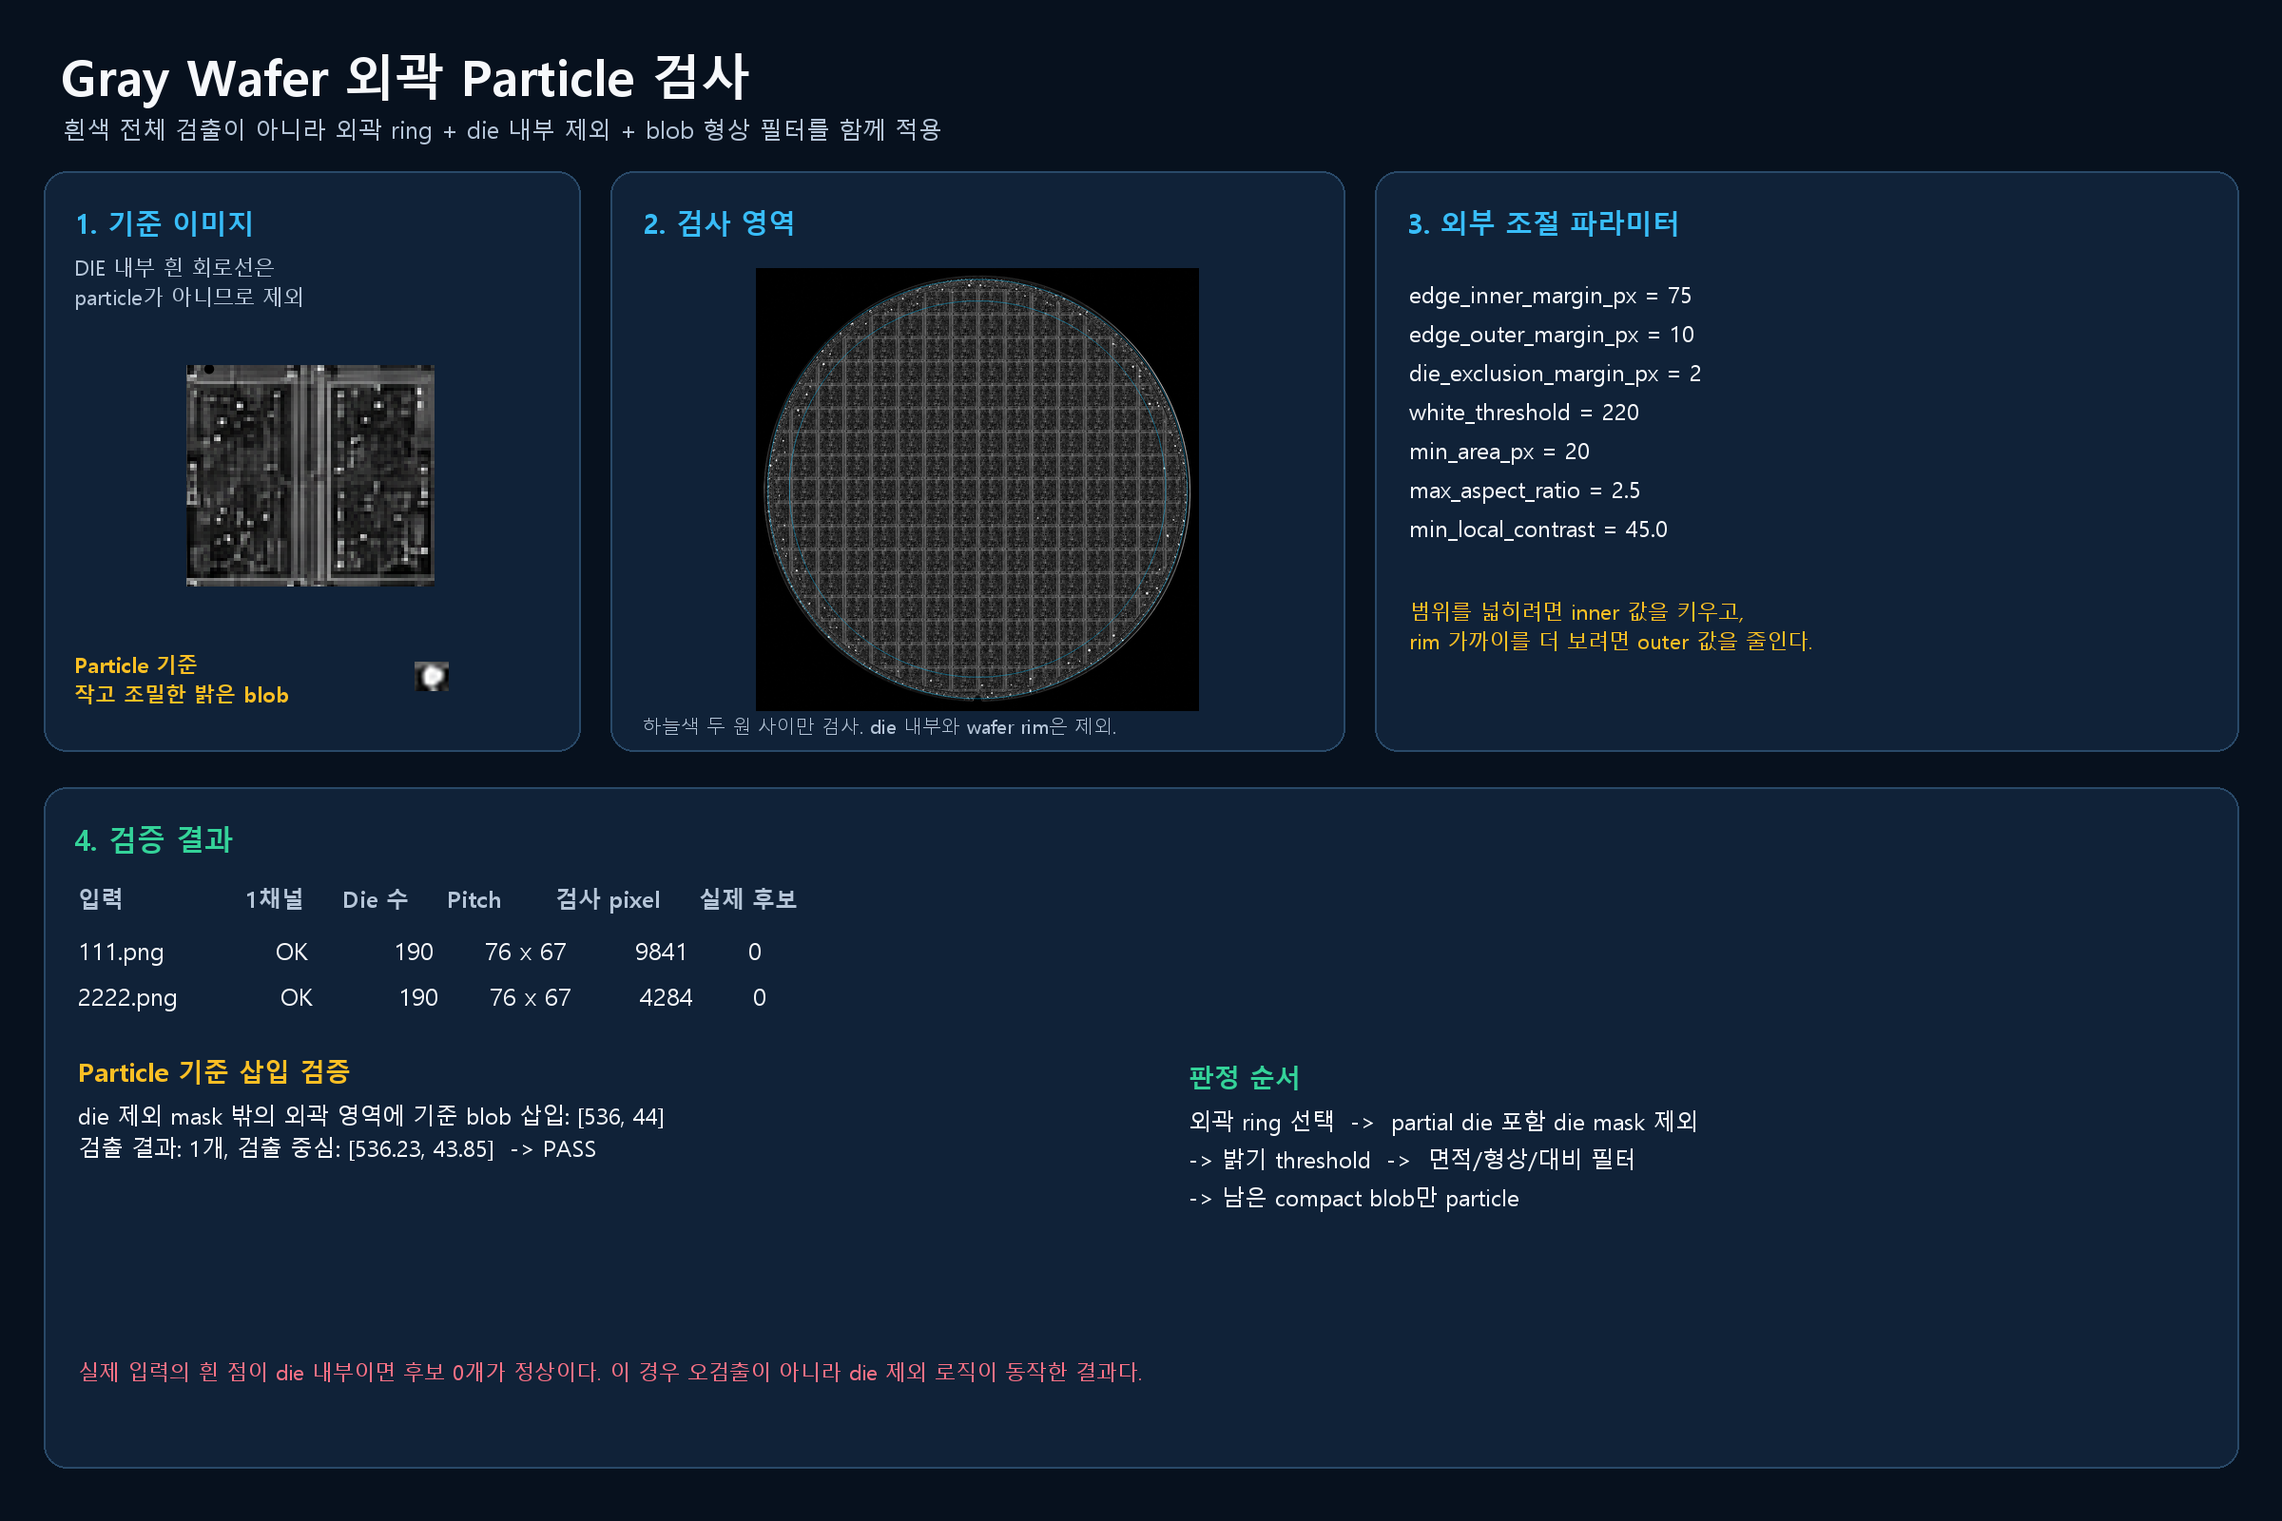
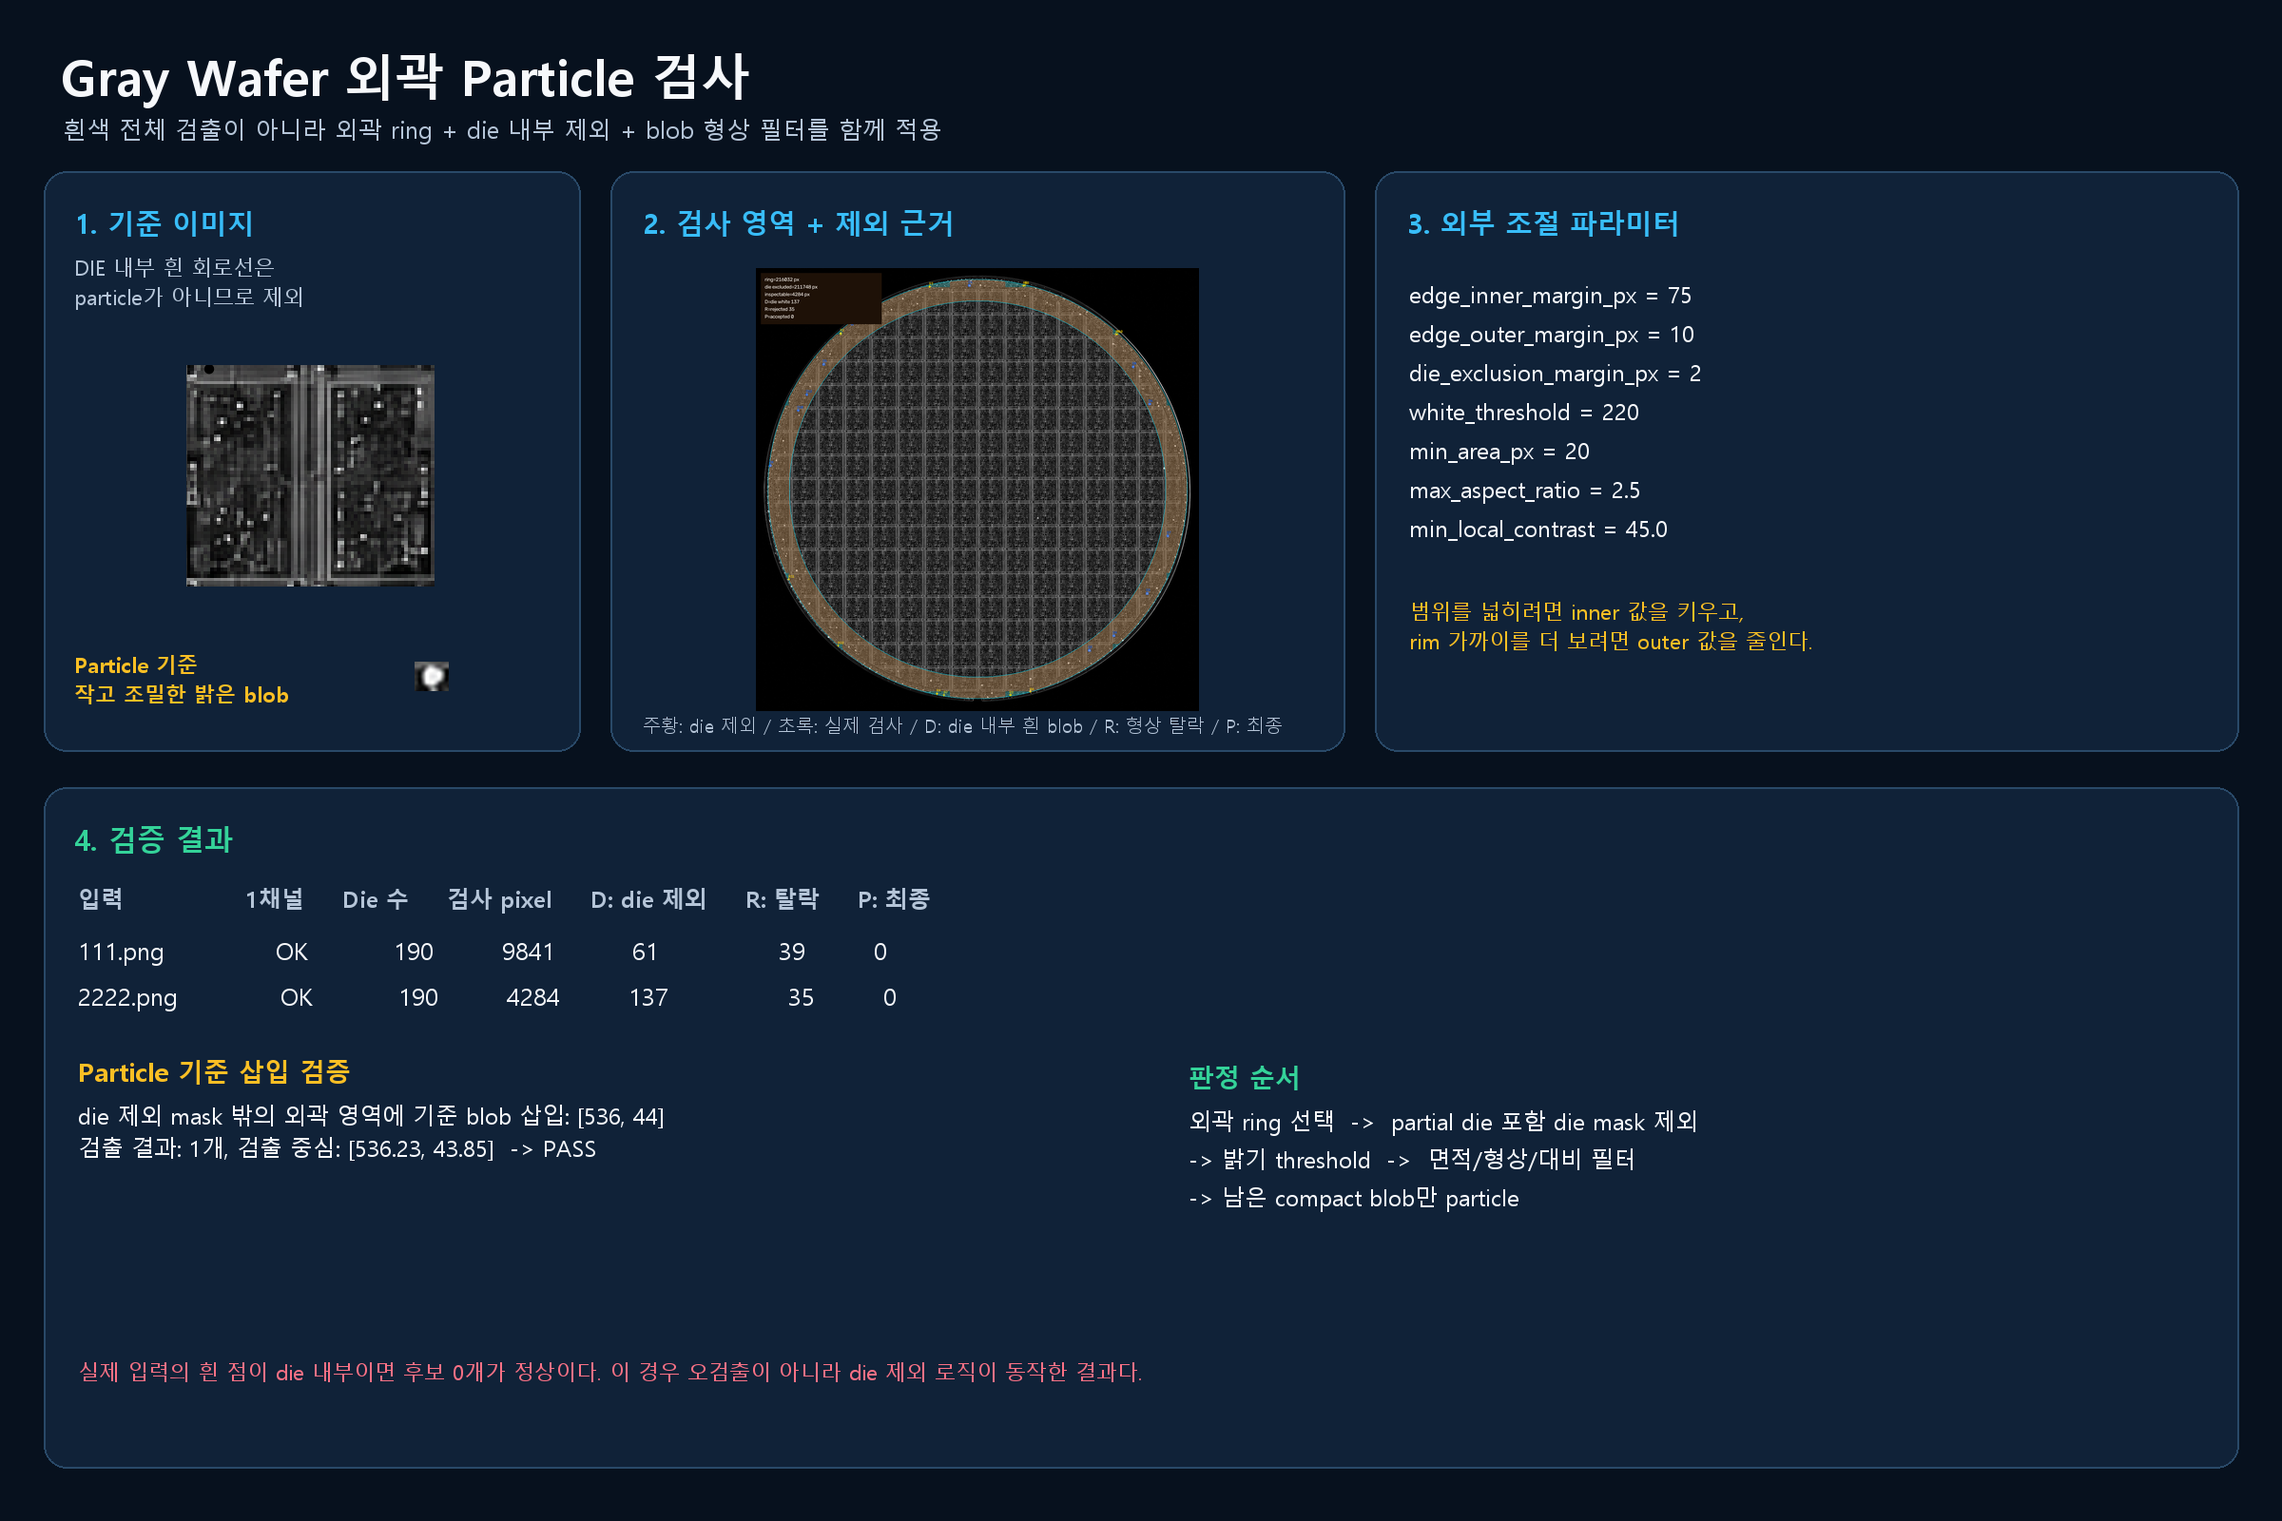
add edge particle diagnostic overlays

diff --git a/paste_ready_evaluate_bw_noisy_wafer.py b/paste_ready_evaluate_bw_noisy_wafer.py
@@ -99,7 +99,8 @@ __all__ = ["WaferDieMap", "build_die_map", "locate_die", "crop_die",
            "validate_quadrant_edges",
            "render_die_grid_mask", "measure_die_render_angle",
            "align_wafer_by_die_render", "measure_wafer_angle_robust",
-           "inspect_edge_particles", "render_edge_particle_overlay"]
+           "inspect_edge_particles", "render_edge_particle_overlay",
+           "render_edge_particle_diagnostic_overlay"]
 
 
 # #############################################################################
@@ -2473,7 +2474,8 @@ def inspect_edge_particles(image: Union[str, Path, np.ndarray], *,
                            max_area_px: int = 300,
                            max_aspect_ratio: float = 2.5,
                            min_fill_ratio: float = 0.45,
-                           min_local_contrast: float = 45.0
+                           min_local_contrast: float = 45.0,
+                           include_debug_components: bool = False
                            ) -> Dict[str, Any]:
     """Detect compact bright particles only in an adjustable wafer-edge ring.
 
@@ -2527,16 +2529,36 @@ def inspect_edge_particles(image: Union[str, Path, np.ndarray], *,
 
     inspection_mask = ((ring_mask > 0) & (die_mask == 0)).astype(np.uint8)
     bright_mask = ((gray >= int(white_threshold)) & (inspection_mask > 0)).astype(np.uint8)
+    die_bright_mask = ((gray >= int(white_threshold)) & (ring_mask > 0) & (die_mask > 0)).astype(np.uint8)
     num_labels, labels, stats, centroids = cv2.connectedComponentsWithStats(bright_mask, 8)
 
     particles: List[Dict[str, Any]] = []
+    rejected_components: List[Dict[str, Any]] = []
+
+    def _record(label: int, reason: str, *, local_contrast: Optional[float] = None) -> Dict[str, Any]:
+        x, y, box_w, box_h, area = (int(value) for value in stats[label])
+        cx, cy = (float(value) for value in centroids[label])
+        record: Dict[str, Any] = {
+            "center_px": (round(cx, 2), round(cy, 2)),
+            "bbox_px": (x, y, x + box_w, y + box_h),
+            "area_px": area,
+            "reason": reason,
+        }
+        if local_contrast is not None:
+            record["local_contrast"] = round(local_contrast, 2)
+        return record
+
     for label in range(1, num_labels):
         x, y, box_w, box_h, area = (int(value) for value in stats[label])
         if not min_area_px <= area <= max_area_px:
+            if include_debug_components:
+                rejected_components.append(_record(label, "area"))
             continue
         aspect_ratio = max(box_w, box_h) / max(1.0, min(box_w, box_h))
         fill_ratio = area / float(max(1, box_w * box_h))
         if aspect_ratio > max_aspect_ratio or fill_ratio < min_fill_ratio:
+            if include_debug_components:
+                rejected_components.append(_record(label, "shape"))
             continue
 
         component_mask = labels[y:y + box_h, x:x + box_w] == label
@@ -2547,9 +2569,13 @@ def inspect_edge_particles(image: Union[str, Path, np.ndarray], *,
         local_component = labels[ry1:ry2, rx1:rx2] == label
         local_background = inspection_mask[ry1:ry2, rx1:rx2].astype(bool) & ~local_component
         if int(local_background.sum()) < 8:
+            if include_debug_components:
+                rejected_components.append(_record(label, "background"))
             continue
         local_contrast = mean_intensity - float(np.median(gray[ry1:ry2, rx1:rx2][local_background]))
         if local_contrast < min_local_contrast:
+            if include_debug_components:
+                rejected_components.append(_record(label, "contrast", local_contrast=local_contrast))
             continue
 
         cx, cy = (float(value) for value in centroids[label])
@@ -2565,6 +2591,21 @@ def inspect_edge_particles(image: Union[str, Path, np.ndarray], *,
             "radius_from_wafer_center_px": round(float(np.hypot(cx - die_map.wafer_cx, cy - die_map.wafer_cy)), 2),
         })
 
+    die_bright_components: List[Dict[str, Any]] = []
+    if include_debug_components:
+        die_count, _, die_stats, die_centroids = cv2.connectedComponentsWithStats(die_bright_mask, 8)
+        for label in range(1, die_count):
+            x, y, box_w, box_h, area = (int(value) for value in die_stats[label])
+            if area < 3:
+                continue
+            cx, cy = (float(value) for value in die_centroids[label])
+            die_bright_components.append({
+                "center_px": (round(cx, 2), round(cy, 2)),
+                "bbox_px": (x, y, x + box_w, y + box_h),
+                "area_px": area,
+                "reason": "die_excluded",
+            })
+
     return {
         "die_map": die_map,
         "particles": particles,
@@ -2572,6 +2613,15 @@ def inspect_edge_particles(image: Union[str, Path, np.ndarray], *,
         "die_exclusion_mask": die_mask,
         "inspection_mask": inspection_mask,
         "bright_mask": bright_mask,
+        "die_bright_mask": die_bright_mask,
+        "mask_summary": {
+            "ring_pixels": int(ring_mask.sum()),
+            "die_excluded_pixels_in_ring": int(((ring_mask > 0) & (die_mask > 0)).sum()),
+            "inspection_pixels": int(inspection_mask.sum()),
+            "bright_pixels_inside_die": int(die_bright_mask.sum()),
+            "bright_components_in_inspection": int(num_labels - 1),
+            "accepted_particles": len(particles),
+        },
         "parameters": {
             "edge_inner_margin_px": edge_inner_margin_px,
             "edge_outer_margin_px": edge_outer_margin_px,
@@ -2588,6 +2638,10 @@ def inspect_edge_particles(image: Union[str, Path, np.ndarray], *,
             "inner": round(inner_radius, 2),
             "outer": round(outer_radius, 2),
         },
+        "debug_components": {
+            "die_excluded": die_bright_components,
+            "rejected": rejected_components,
+        } if include_debug_components else None,
     }
 
 
@@ -2607,6 +2661,63 @@ def render_edge_particle_overlay(image: Union[str, Path, np.ndarray],
         cv2.drawMarker(canvas, center, (0, 0, 255), cv2.MARKER_CROSS, 10, 1)
         cv2.putText(canvas, str(particle["id"]), (x1, max(12, y1 - 3)),
                     cv2.FONT_HERSHEY_SIMPLEX, 0.35, (0, 0, 255), 1, cv2.LINE_AA)
+    return canvas
+
+
+def render_edge_particle_diagnostic_overlay(image: Union[str, Path, np.ndarray],
+                                            inspection: Dict[str, Any],
+                                            max_debug_components: int = 12) -> np.ndarray:
+    """Render inspection, die-excluded, rejected, and accepted particle areas."""
+    canvas = _load_bgr(image).copy()
+    ring = inspection["ring_mask"].astype(bool)
+    die_in_ring = ring & inspection["die_exclusion_mask"].astype(bool)
+    inspectable = inspection["inspection_mask"].astype(bool)
+
+    tint = canvas.copy()
+    tint[ring] = (255, 150, 0)          # cyan: outer ring
+    canvas = cv2.addWeighted(canvas, 0.78, tint, 0.22, 0)
+    tint = canvas.copy()
+    tint[die_in_ring] = (0, 120, 255)   # orange: die interior exclusion
+    canvas = cv2.addWeighted(canvas, 0.68, tint, 0.32, 0)
+    tint = canvas.copy()
+    tint[inspectable] = (90, 220, 90)   # green: pixels allowed to inspect
+    canvas = cv2.addWeighted(canvas, 0.84, tint, 0.16, 0)
+
+    die_map = inspection["die_map"]
+    inner_radius = int(round(inspection["inspection_radii_px"]["inner"]))
+    outer_radius = int(round(inspection["inspection_radii_px"]["outer"]))
+    cv2.circle(canvas, (die_map.wafer_cx, die_map.wafer_cy), inner_radius, (255, 220, 0), 1)
+    cv2.circle(canvas, (die_map.wafer_cx, die_map.wafer_cy), outer_radius, (255, 220, 0), 1)
+
+    debug = inspection.get("debug_components") or {"die_excluded": [], "rejected": []}
+    groups = (
+        ("D", debug["die_excluded"], (255, 90, 0), "die excluded"),
+        ("R", debug["rejected"], (0, 220, 255), "shape/area rejected"),
+        ("P", inspection["particles"], (0, 0, 255), "accepted particle"),
+    )
+    for prefix, components, color, _ in groups:
+        ranked = sorted(components, key=lambda item: int(item["area_px"]), reverse=True)[:max_debug_components]
+        for index, component in enumerate(ranked, start=1):
+            x1, y1, x2, y2 = component["bbox_px"]
+            center = tuple(int(round(value)) for value in component["center_px"])
+            cv2.rectangle(canvas, (x1, y1), (x2, y2), color, 1)
+            cv2.drawMarker(canvas, center, color, cv2.MARKER_CROSS, 8, 1)
+            cv2.putText(canvas, f"{prefix}{index}", (x1, max(12, y1 - 3)),
+                        cv2.FONT_HERSHEY_SIMPLEX, 0.35, color, 1, cv2.LINE_AA)
+
+    summary = inspection["mask_summary"]
+    legend = [
+        f"ring={summary['ring_pixels']} px",
+        f"die excluded={summary['die_excluded_pixels_in_ring']} px",
+        f"inspectable={summary['inspection_pixels']} px",
+        f"D=die white {len(debug['die_excluded'])}",
+        f"R=rejected {len(debug['rejected'])}",
+        f"P=accepted {len(inspection['particles'])}",
+    ]
+    cv2.rectangle(canvas, (14, 14), (355, 158), (7, 17, 30), -1)
+    for row, value in enumerate(legend):
+        cv2.putText(canvas, value, (25, 37 + row * 21), cv2.FONT_HERSHEY_SIMPLEX,
+                    0.48, (240, 245, 250), 1, cv2.LINE_AA)
     return canvas
 
 

diff --git a/evaluate_gray_edge_particles.py b/evaluate_gray_edge_particles.py
@@ -11,6 +11,7 @@ import numpy as np
 from paste_ready_evaluate_bw_noisy_wafer import (
     build_die_map,
     inspect_edge_particles,
+    render_edge_particle_diagnostic_overlay,
     render_edge_particle_overlay,
 )
 
@@ -75,10 +76,15 @@ def main() -> None:
         if image is None:
             raise FileNotFoundError(name)
         die_map = build_die_map(image, grid_method="std", notch_align=False, edge_mode="both")
-        inspection = inspect_edge_particles(image, grid_method="std", notch_align=False, **EDGE_PARAMS)
+        inspection = inspect_edge_particles(
+            image, grid_method="std", notch_align=False,
+            include_debug_components=True, **EDGE_PARAMS)
         overlay_path = RESULT_DIR / f"{Path(name).stem}_edge_particles.png"
+        diagnostic_path = RESULT_DIR / f"{Path(name).stem}_edge_particle_diagnostic.png"
         if not cv2.imwrite(str(overlay_path), render_edge_particle_overlay(image, inspection)):
             raise RuntimeError(f"Could not write: {overlay_path}")
+        if not cv2.imwrite(str(diagnostic_path), render_edge_particle_diagnostic_overlay(image, inspection)):
+            raise RuntimeError(f"Could not write: {diagnostic_path}")
         results.append({
             "image": name,
             "input_shape": list(image.shape),
@@ -86,9 +92,15 @@ def main() -> None:
             "num_dies": die_map.num_dies,
             "pitch_px": [round(float(die_map.pitch_x), 3), round(float(die_map.pitch_y), 3)],
             "inspection_pixels": int(inspection["inspection_mask"].sum()),
+            "mask_summary": inspection["mask_summary"],
+            "debug_component_counts": {
+                "die_excluded": len(inspection["debug_components"]["die_excluded"]),
+                "rejected": len(inspection["debug_components"]["rejected"]),
+            },
             "particle_count": len(inspection["particles"]),
             "particles": inspection["particles"],
             "overlay": str(overlay_path.relative_to(GRAY_DIR)),
+            "diagnostic_overlay": str(diagnostic_path.relative_to(GRAY_DIR)),
         })
         source_for_reference_check = image
 

diff --git a/make_gray_edge_particle_visual.py b/make_gray_edge_particle_visual.py
@@ -64,9 +64,9 @@ def main() -> None:
     paste_fit(canvas, GRAY_DIR / "Paticle" / "22.png", (370, 666, 538, 758))
 
     panel(draw, (642, 180, 1414, 790))
-    text(draw, (676, 214), "2. 검사 영역", size=29, bold=True, fill=CYAN)
-    paste_fit(canvas, GRAY_DIR / by_name["2222.png"]["overlay"], (678, 282, 1378, 748))
-    text(draw, (676, 750), "하늘색 두 원 사이만 검사. die 내부와 wafer rim은 제외.", size=20, fill=MUTED)
+    text(draw, (676, 214), "2. 검사 영역 + 제외 근거", size=29, bold=True, fill=CYAN)
+    paste_fit(canvas, GRAY_DIR / by_name["2222.png"]["diagnostic_overlay"], (678, 282, 1378, 748))
+    text(draw, (676, 750), "주황: die 제외 / 초록: 실제 검사 / D: die 내부 흰 blob / R: 형상 탈락 / P: 최종", size=19, fill=MUTED)
 
     panel(draw, (1446, 180, 2354, 790))
     text(draw, (1480, 214), "3. 외부 조절 파라미터", size=29, bold=True, fill=CYAN)
@@ -84,14 +84,14 @@ def main() -> None:
 
     panel(draw, (46, 828, 2354, 1544))
     text(draw, (78, 862), "4. 검증 결과", size=30, bold=True, fill=GREEN)
-    text(draw, (82, 928), "입력                1채널     Die 수     Pitch       검사 pixel     실제 후보", size=24, bold=True, fill=MUTED)
+    text(draw, (82, 928), "입력                1채널     Die 수     검사 pixel     D: die 제외     R: 탈락     P: 최종", size=24, bold=True, fill=MUTED)
     y = 982
     for name in ("111.png", "2222.png"):
         item = by_name[name]
-        pitch_x, pitch_y = item["pitch_px"]
+        debug = item["debug_component_counts"]
         text(draw, (82, y),
-             f"{name:<18}  OK          {item['num_dies']:>3}      {pitch_x:.0f} x {pitch_y:.0f}      "
-             f"{item['inspection_pixels']:>6}       {item['particle_count']}",
+             f"{name:<18}  OK          {item['num_dies']:>3}      {item['inspection_pixels']:>6}       "
+             f"{debug['die_excluded']:>4}            {debug['rejected']:>4}        {item['particle_count']}",
              size=25, fill=TEXT)
         y += 48
 
